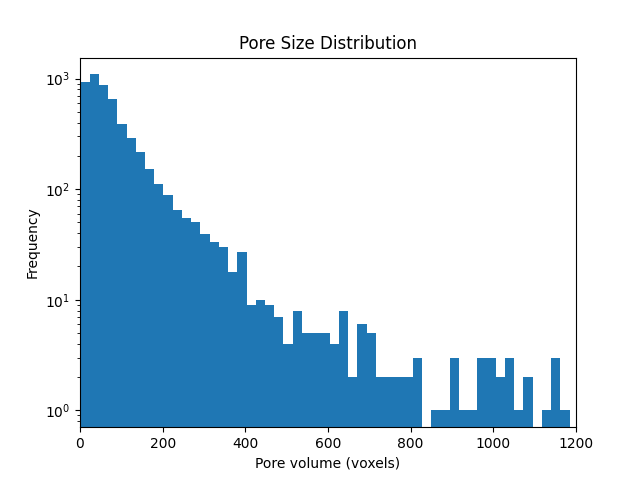
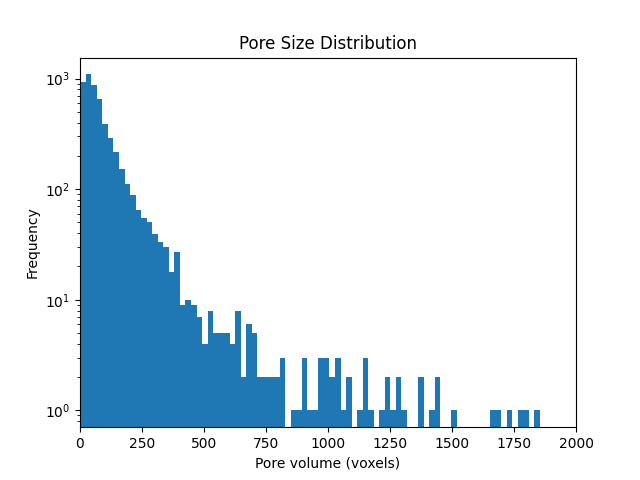
made graph

Changed region(s): [[0.125, 0.1562, 0.9375, 0.9375], [0.1875, 0.9062, 0.4375, 0.9375]]

diff --git a/Scripts/porosityMetrics.py b/Scripts/porosityMetrics.py
@@ -25,7 +25,7 @@ print("Number of pores detected:", num_pores)
 plt.hist(pore_volumes, bins=3000)
 plt.xlabel("Pore volume (voxels)")
 plt.yscale("log")
-plt.xlim(0, 1200)
+plt.xlim(0, 2000)
 plt.ylabel("Frequency")
 plt.title("Pore Size Distribution")
 
